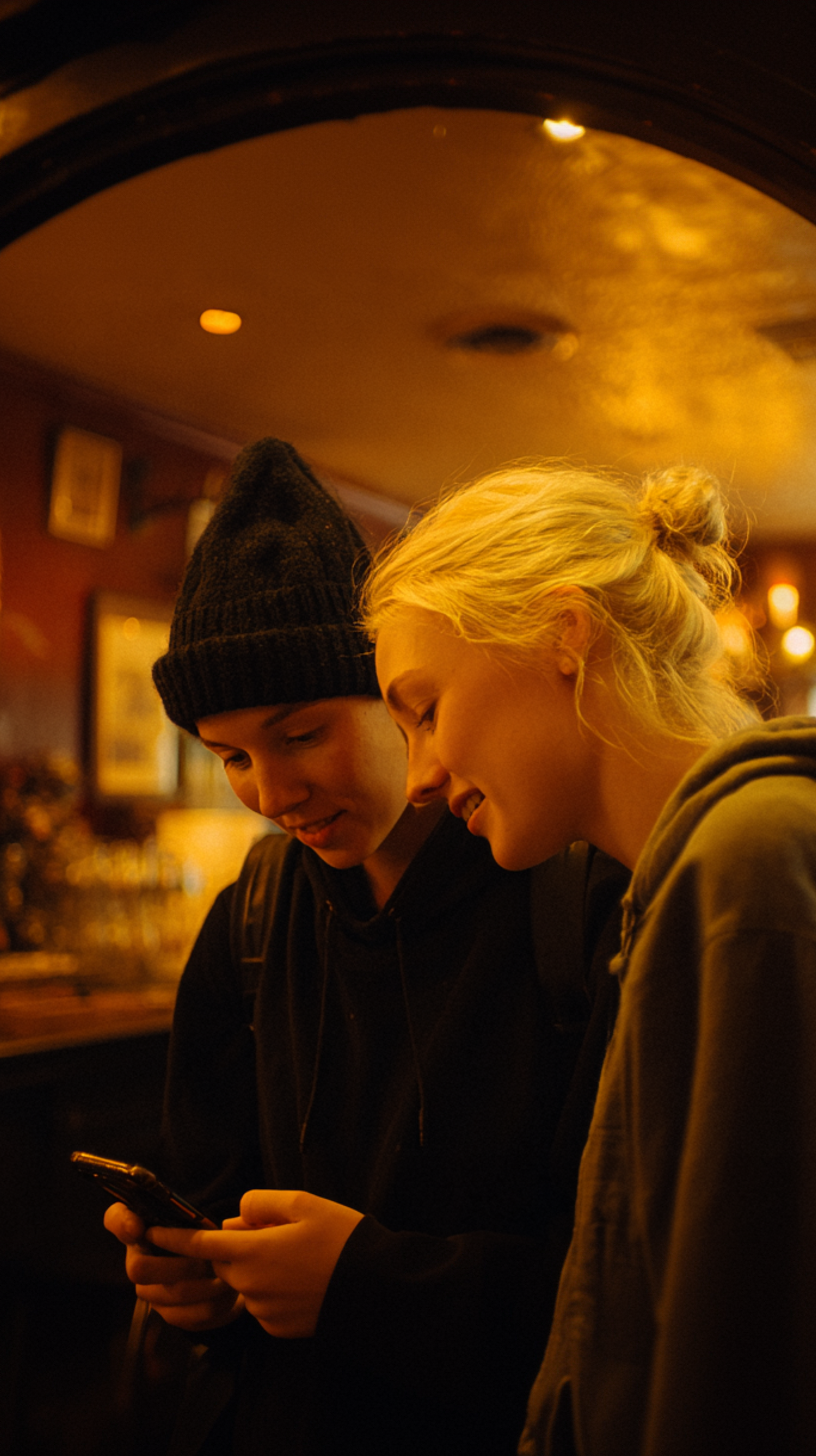
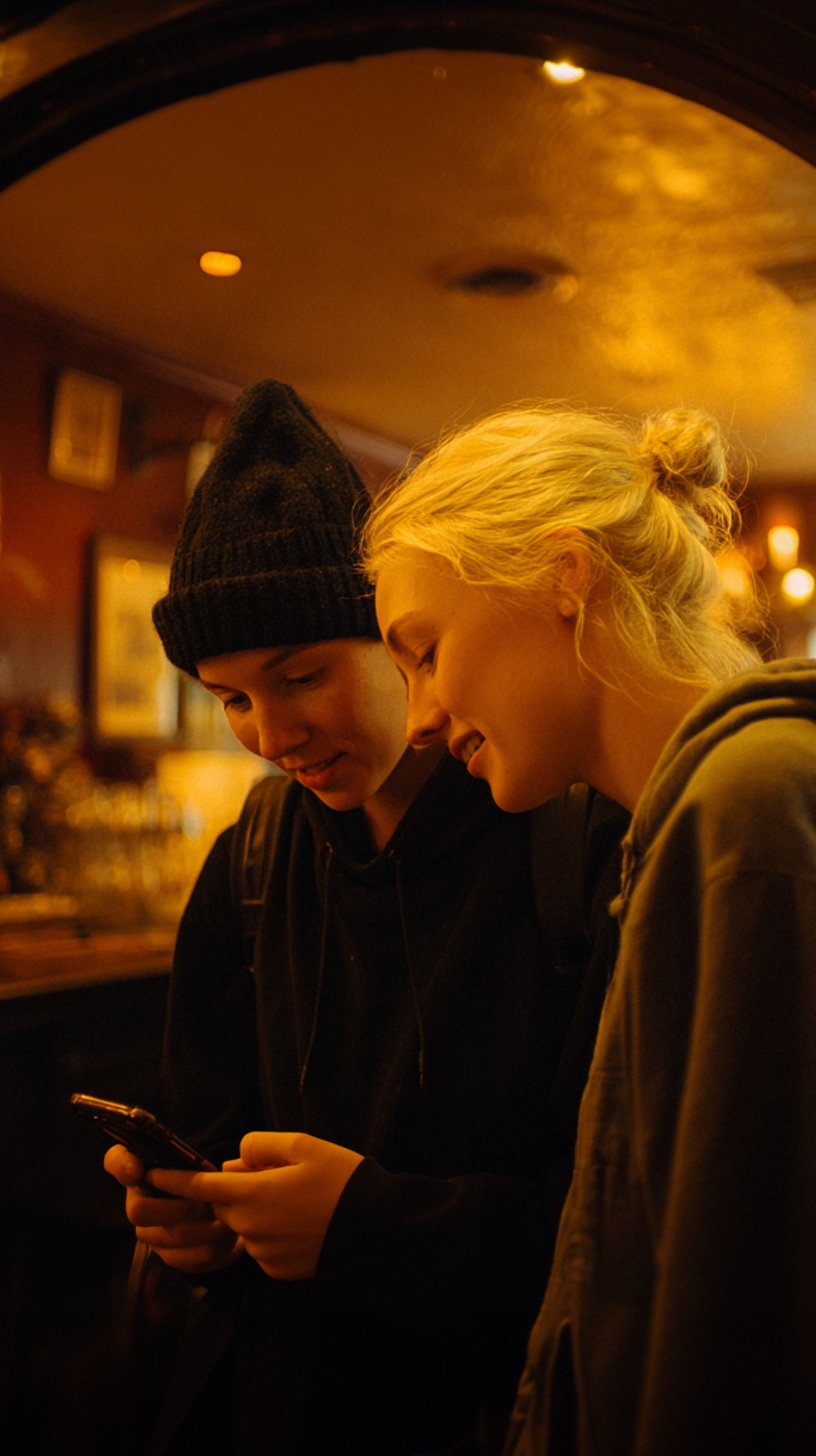
Move mobile headline to top center

diff --git a/index.html b/index.html
@@ -142,6 +142,7 @@
 
       .bg, .headline-wrap, .form-wrap, .legal-desktop { display: none; }
 
+      /* Image with headline overlaid at top */
       .mobile-bg {
         display: block;
         position: relative;
@@ -153,6 +154,19 @@
         background-repeat: no-repeat;
       }
 
+      /* Subtle top fade for headline legibility */
+      .mobile-bg::before {
+        content: '';
+        position: absolute;
+        top: 0;
+        left: 0;
+        right: 0;
+        height: 28%;
+        background: linear-gradient(to bottom, rgba(0,0,0,0.42) 0%, rgba(0,0,0,0) 100%);
+        z-index: 1;
+      }
+
+      /* Quick fade at the very bottom only */
       .mobile-bg::after {
         content: '';
         position: absolute;
@@ -161,15 +175,17 @@
         right: 0;
         height: 18%;
         background: linear-gradient(to bottom, rgba(10,10,10,0) 0%, rgba(10,10,10,1) 100%);
+        z-index: 1;
       }
 
+      /* Headline — top center, mirrors desktop */
       .mobile-headline {
         position: absolute;
-        bottom: 22%;
+        top: 0;
         left: 0;
         right: 0;
         text-align: center;
-        padding: 0 16px;
+        padding-top: clamp(32px, 7vw, 52px);
         z-index: 2;
       }
 
@@ -184,6 +200,7 @@
         text-shadow: 0 1px 14px rgba(0,0,0,0.5);
       }
 
+      /* Form sits in the black below the image */
       .mobile-form-area {
         display: block;
         background: #0a0a0a;
